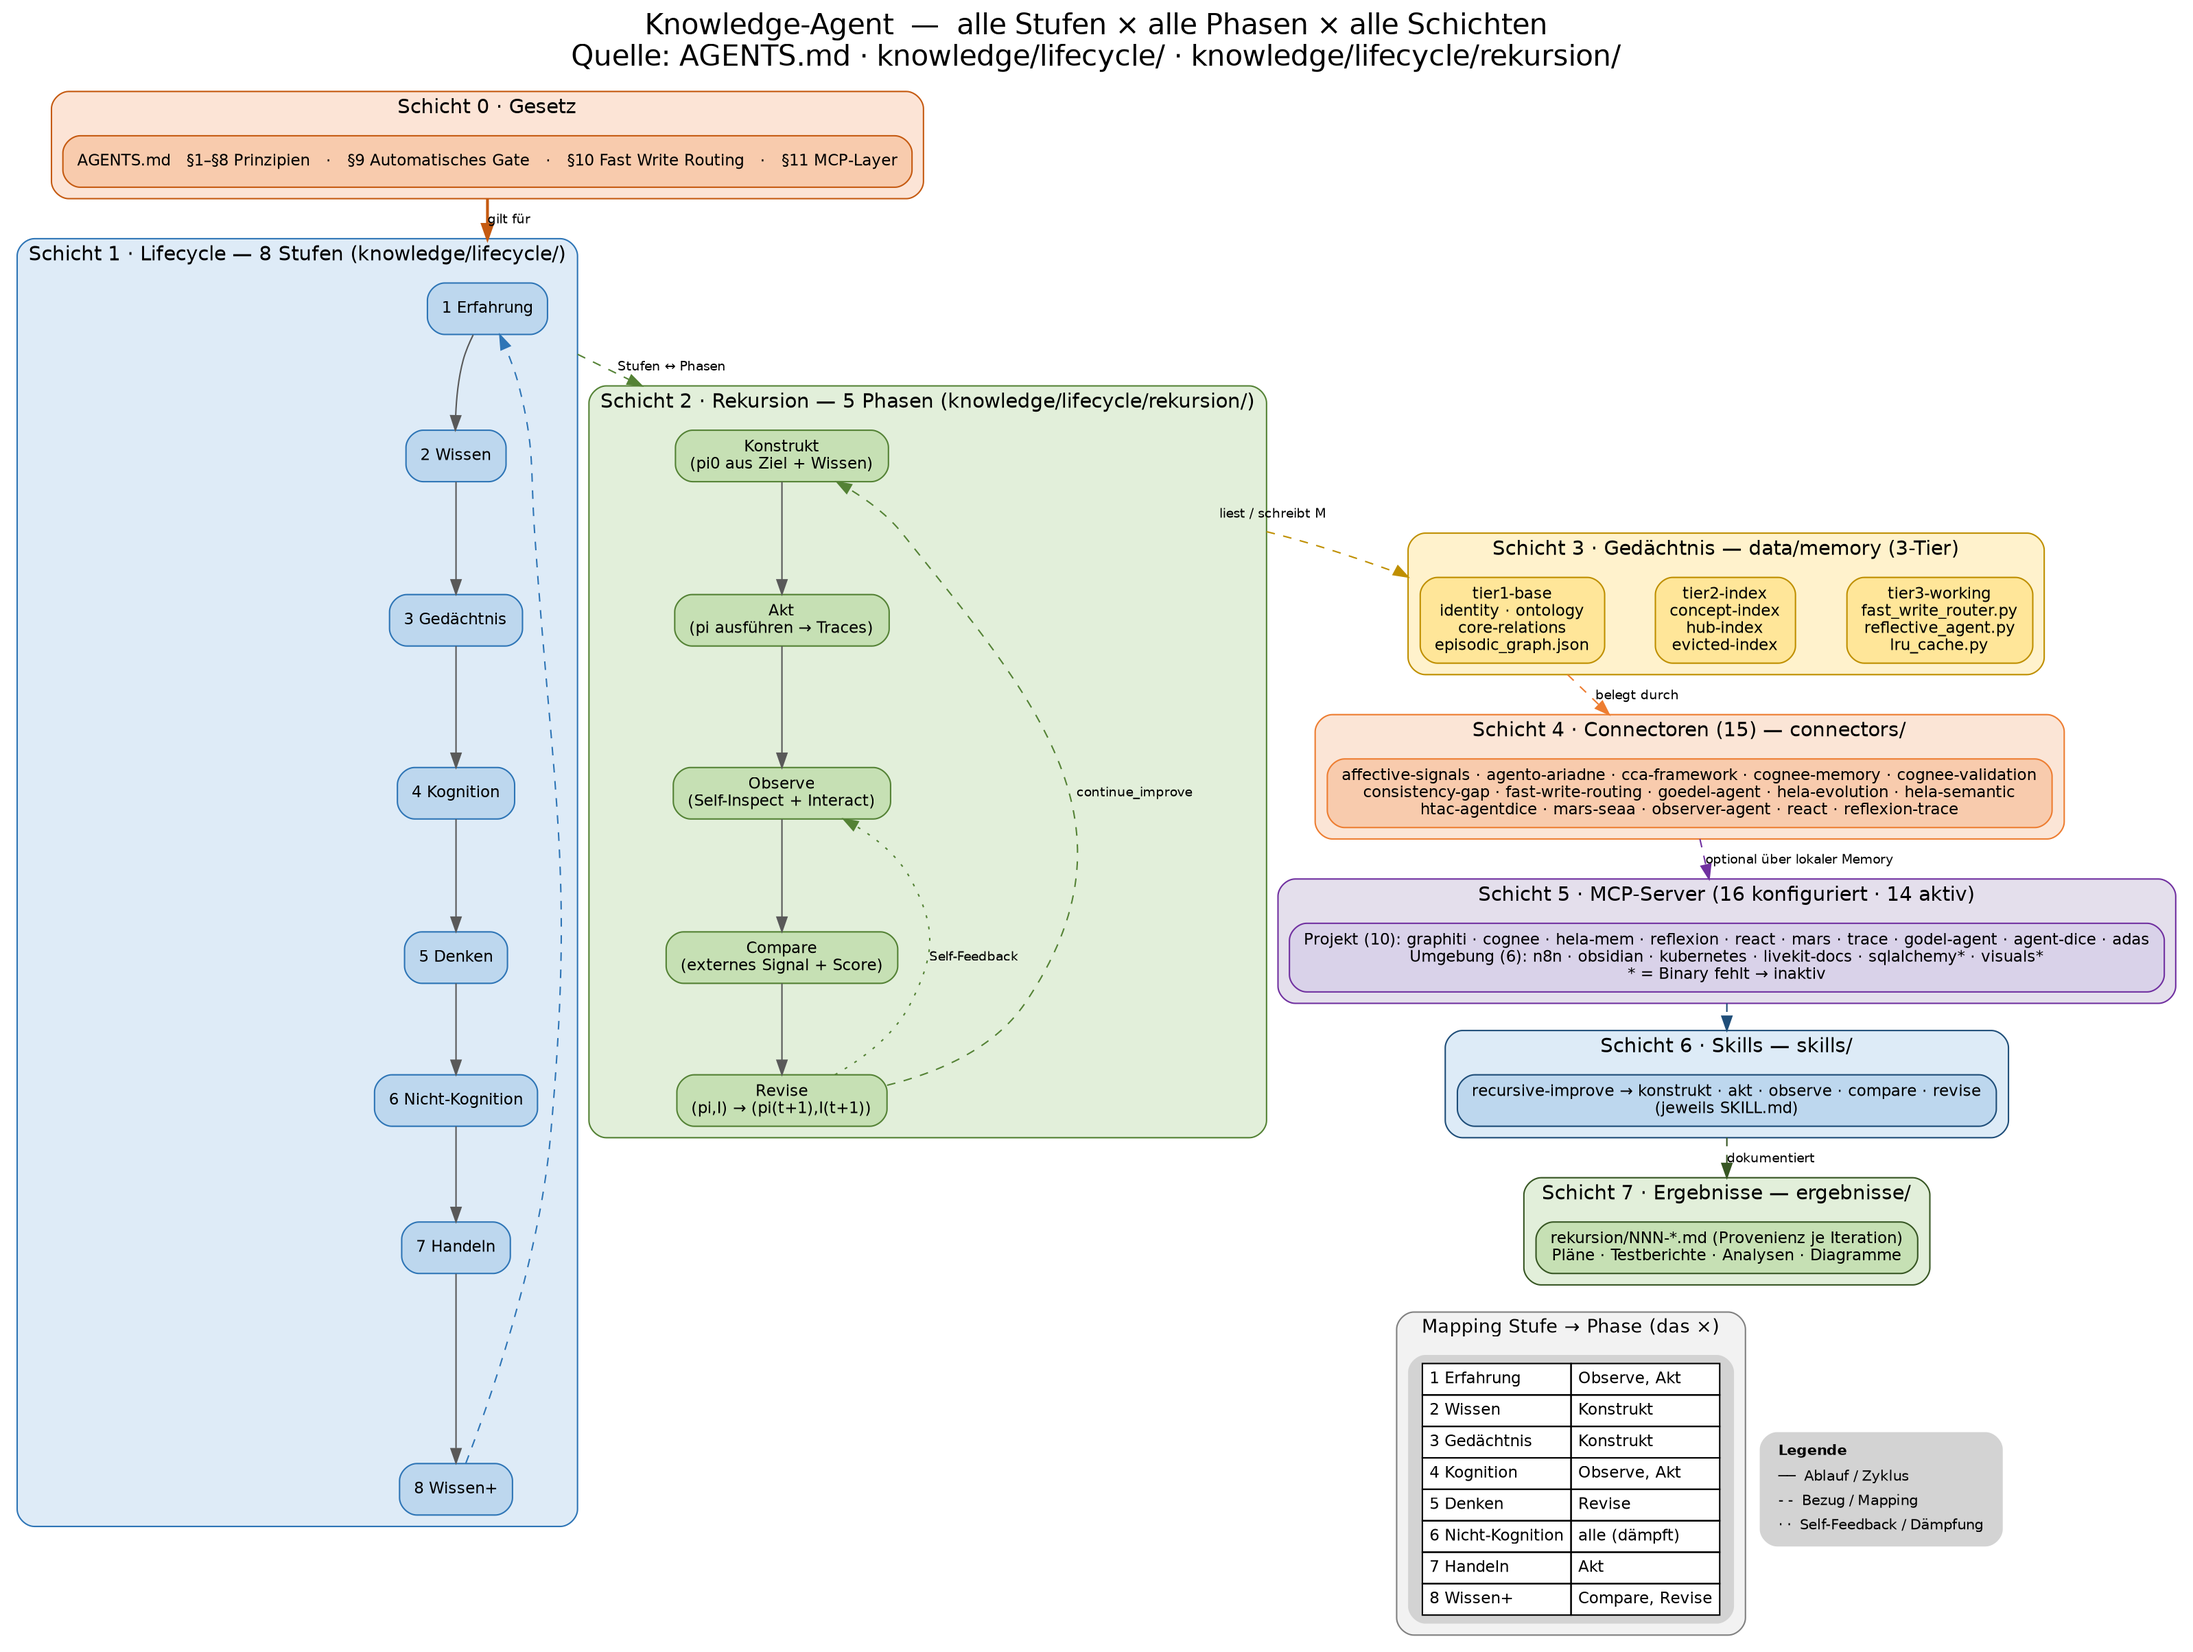
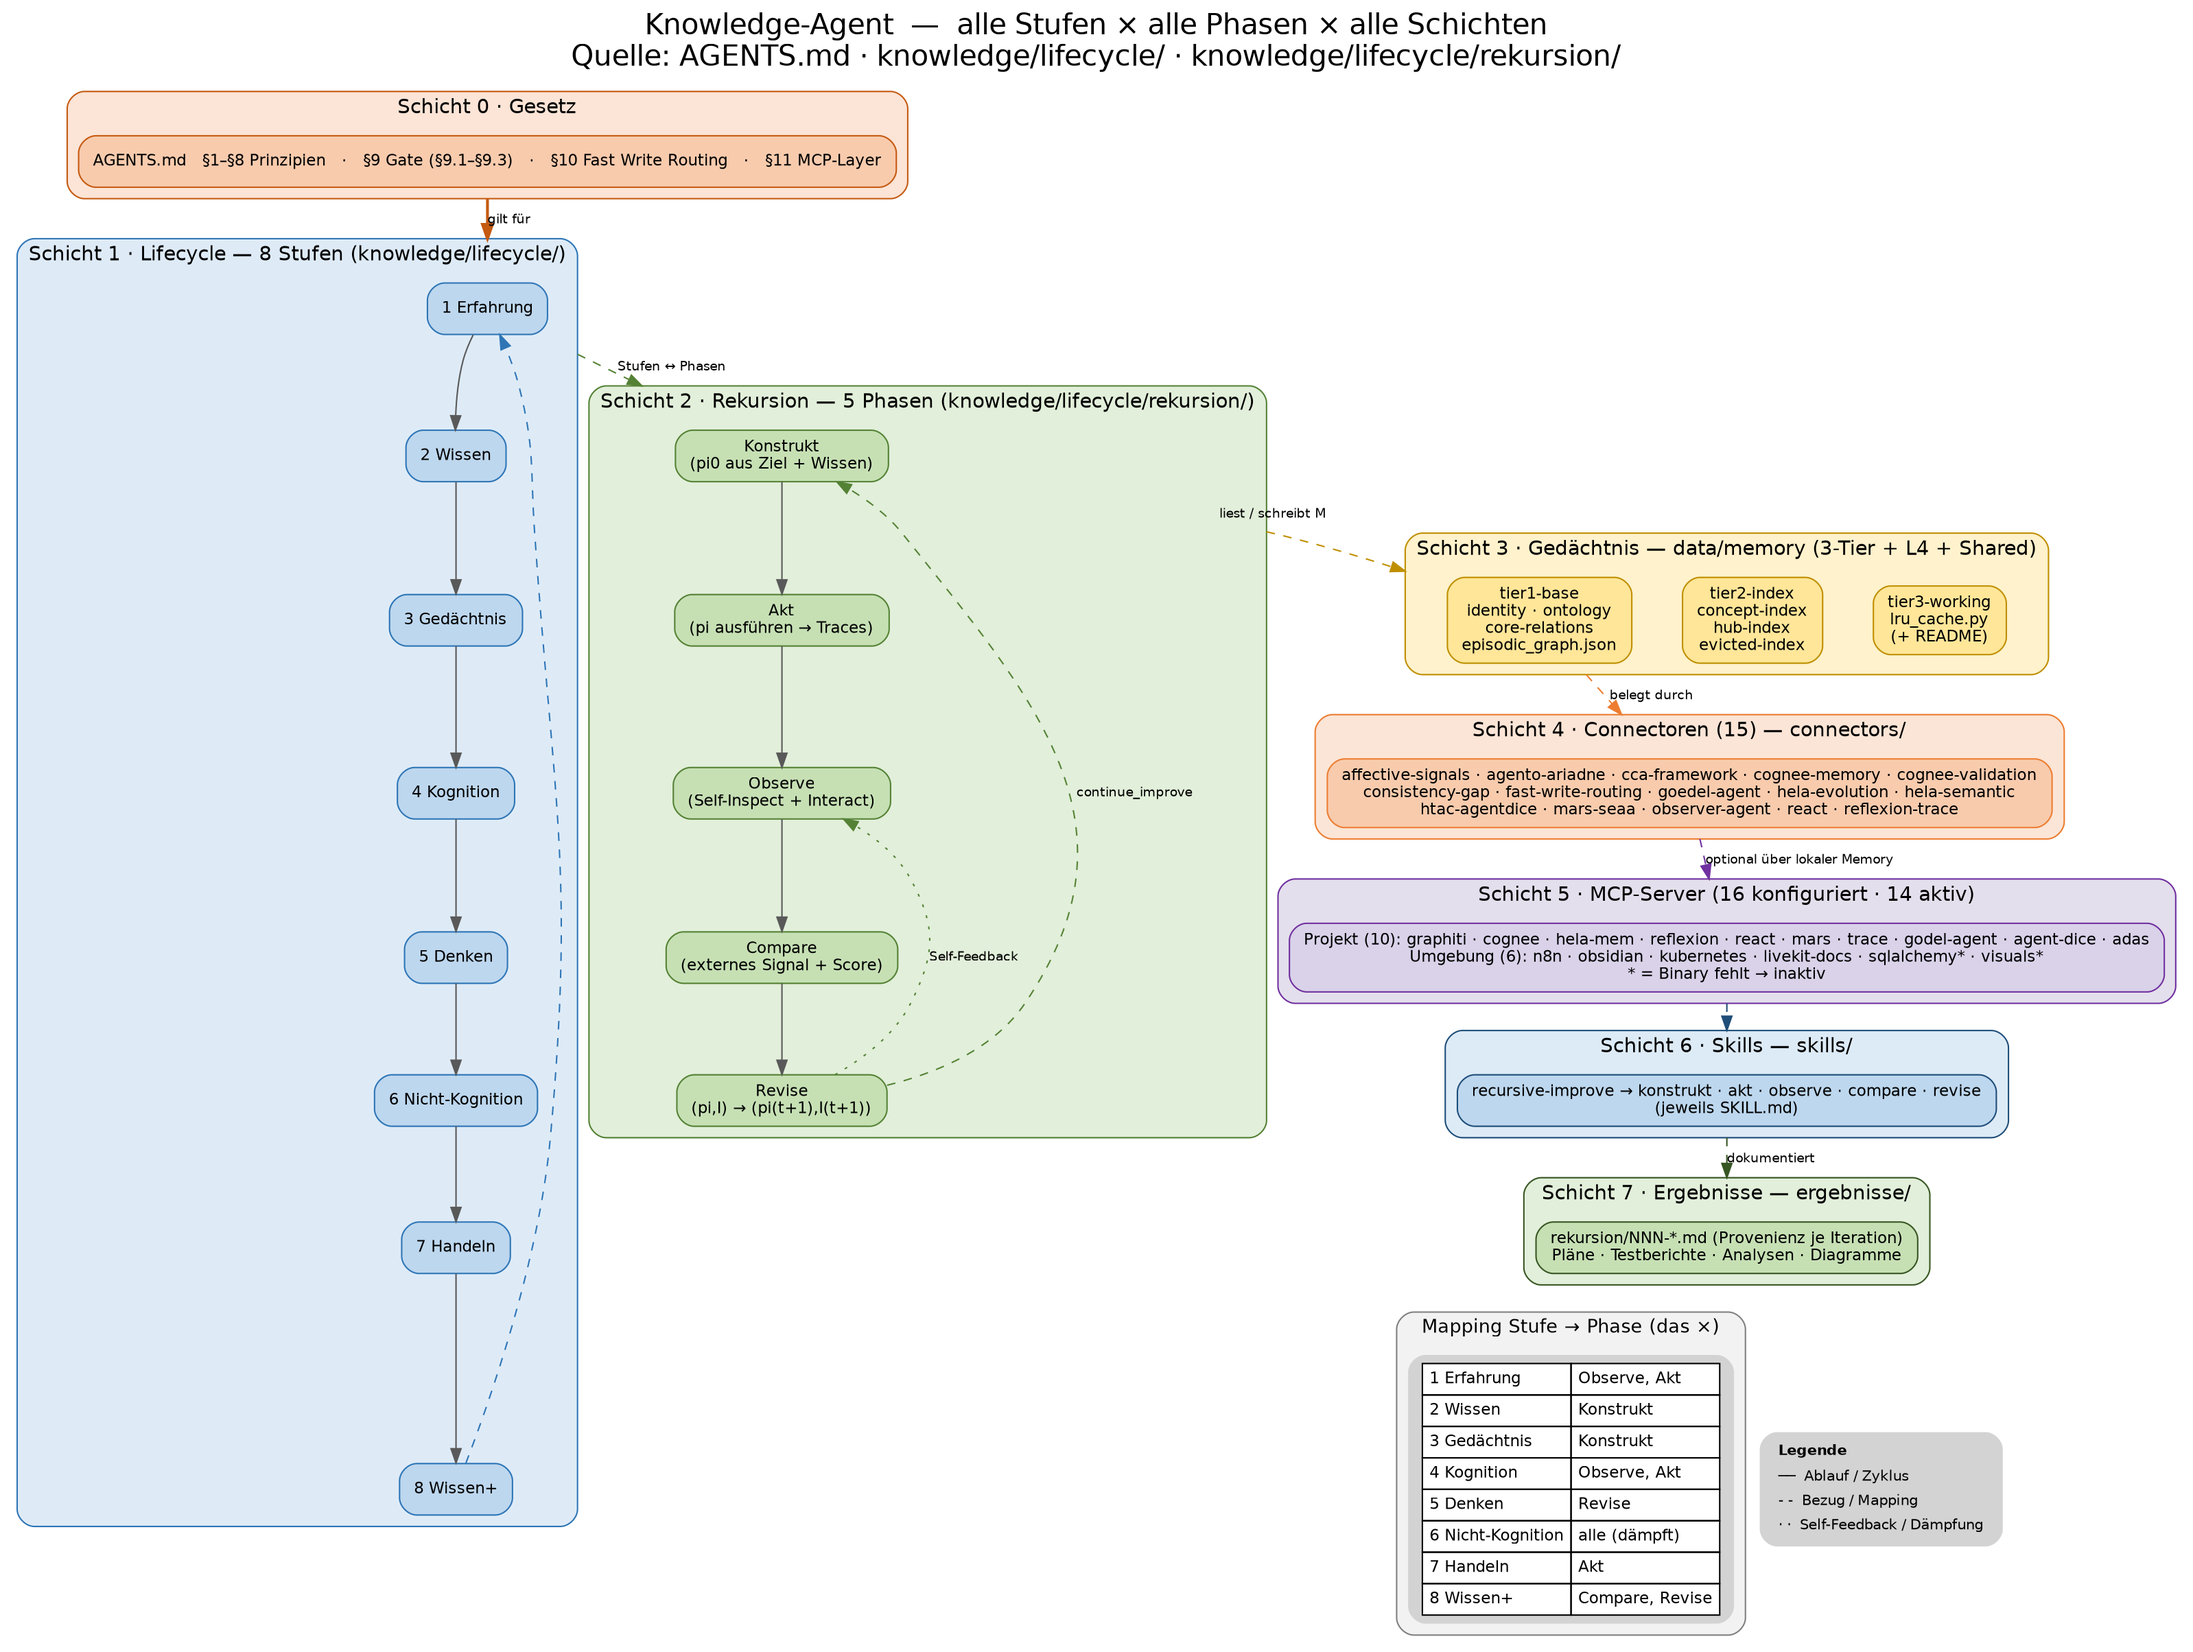
docs: Multi-Agent-Audit Code→Docs (Abweichungen behoben)
- AGENTS.md: §9.2a PII löschen (nicht [PII:typ]); §10.1 write-new/write-update (structured+tier3 / supersedieren);
  §10.2 Modelle (gemma-2b/nemotron) + Eskalation (String-Match); §9.1c Impl-Hinweis bias_monitor.py; §11 3-Tier+L4+Shared
- data/memory/README.md: Prozesse 6->9; versions/v3; LRU->wertbewusste Eviction
- README.md: 3-Tier+L4+Shared; §9.3; versions v1-v3
- agent-aufbau-kompakt.dot: git 7d80bbe; Prozesse 9; ergebnisse 75; rekursion 000-028; §9.1-9.3 (+ re-render)
- knowledge-agent-diagramm.dot: falscher tier3-working-Pfad behoben; +L4+Shared; §9.1-9.3 (+ re-render)

Changed region(s): [[0.6195, 0.3115, 0.9293, 0.436], [0.0, 0.0623, 0.3407, 0.1246], [0.3717, 0.0623, 0.4337, 0.1246]]

diff --git a/AGENTS.md b/AGENTS.md
@@ -165,6 +165,8 @@ willkürlich gesetzt werden:
 Auftrag (Default): max. **10 %** Änderung pro Iteration; darüber → Human-Gate (ask).
 Der Default ist NICHT forschungsbelegt, sondern vorläufige Projekt-Vorgabe; bei
 Kalibrierungsdaten durch den gelernten Schwellwert ersetzen.
+Implementierung: `data/memory/bias_monitor.py` (JSD-basierter Drift-Index (DI),
+Capped-Simplex-Gewichtung, Lyapunov-Damping; τ-Flag → Human-Gate).
 
 **d) Evidenz-Pflicht — Status: Belegt.**
 Jeder Proposal enthält **Score-Änderung, Diff und Drift (Δ zur Baseline)**.
@@ -181,7 +183,9 @@ Template: `ergebnisse/proposal-template.md`.
 Vor dem Persistieren werden PII erkannt und anonymisiert.
 Quelle: SP-Mem (arXiv:2608.16551) — sensible Werte separieren, sanierte Inhalte
 speichern; agentmemory — Secrets/`<private>` vor dem Store entfernen.
-Auftrag: PII-Typen (E-Mail, Telefon, Kreditkarte, IBAN) → `[PII:<typ>]`.
+Auftrag: PII-Typen (E-Mail, Telefon, Kreditkarte, IBAN) werden **entfernt**
+(`PIIFilter.minimize()`, Datenminimierung) – NICHT als `[PII:<typ>]` markiert;
+`anonymize` ist Alias (löscht ebenfalls). Vgl. `ergebnisse/pii-minimierung.md`.
 
 **b) Bias (periodische Checks gegen Ground-Truth-Checkpoints) — Belegt.**
 Bias wird regelmäßig gegen einen Ground-Truth-Checkpoint geprüft; Abweichung
@@ -236,8 +240,8 @@ als erste Entscheidungsinstanz aktiviert:
 | Kategorie | Bedeutung | Aktion |
 |-----------|-----------|--------|
 | **non-write** | Modell kann bereits ohne externes Memory antworten | Nicht speichern (spart Kosten, vermeidet Bloat) |
-| **write-new** | Modell verweigert Antwort ohne Memory → Wissen fehlt | In Cognee/Graphiti (externes Memory) speichern |
-| **write-update** | Modell antwortet falsch (veraltetes Wissen) | Bestehende Memory überschreiben |
+| **write-new** | Modell verweigert Antwort ohne Memory → Wissen fehlt | `knowledge/structured/` + `data/memory/tier3-working/` (vgl. §10.7); Cognee/Graphiti = externes Memory-Konzept |
+| **write-update** | Modell antwortet falsch (veraltetes Wissen) | Bestehende Memory **supersedieren** (invalidieren, NICHT löschen; vgl. §10.7) |
 
 ### 10.2 Architektur: Kleine-zu-Große Kaskade (Small-to-Large Cascade)
 
@@ -245,10 +249,10 @@ als erste Entscheidungsinstanz aktiviert:
 
 | Stufe | Modell | Aufgabe |
 |---|---|---|
-| **Stufe 1** | kleiner Router (qwen3-1.7B) | Filtert offensichtliche **non-write**-Fälle (hohe Konfidenz, Modell kann es zero-shot) |
-| **Stufe 2** | großer Router (qwen3-8B) | Klassifiziert die verbleibenden zwischen **write-new** und **write-update** |
+| **Stufe 1** | kleiner Router (Paper: qwen3-1.7B; Impl. `FWR_SMALL_MODEL`, Default `google/gemma-2b`) | Filtert offensichtliche **non-write**-Fälle (hohe Konfidenz, Modell kann es zero-shot) |
+| **Stufe 2** | großer Router (Paper: qwen3-8B; Impl. `FWR_LARGE_MODEL`, Default `nvidia/nemotron-3-super-120b-a12b`) | Klassifiziert die verbleibenden zwischen **write-new** und **write-update** |
 
-- **Eskalationsgate:** `g* = V_large − V_small`; eskalieren nur wenn `g_pred > 0`.
+- **Eskalation (Impl.):** wenn die Zero-Shot-Antwort des kleinen Routers **nicht korrekt** ist (String-Match in `classify()`); ein expliziter `g_pred`-Vergleich ist (noch) nicht implementiert. (Paper-Konzept: `g* = V_large − V_small`.)
 - **Belegte Wirkung:** < 50 % der Inputs eskaliert, ≤ 68 % redundante Writes reduziert.
 
 **Operative Implementierung:** `data/memory/fast_write_router.py` (verhaltensbasiert,
@@ -322,7 +326,7 @@ liegen – **kein Ersatz**.
 
 | Layer | Inhalt | Verfügbarkeit | Quelle |
 |---|---|---|---|
-| **Basis** | lokale Memory (`data/memory/`, 3-Tier) | **immer** (lokal, keine Cloud) | `data/memory/README.md` |
+| **Basis** | lokale Memory (`data/memory/`, 3-Tier + L4 Procedural + Shared Tier) | **immer** (lokal, keine Cloud) | `data/memory/README.md` |
 | **Optional** | MCPs: Cognee, Graphiti, HeLa-Mem | optional (kann ausfallen) | arXiv:2608.22215 (Dual-Layer) |
 
 Quelle (Dual-Layer-Konzept): arXiv:2608.22215 – „parametric memory Θ (stable,

diff --git a/data/memory/README.md b/data/memory/README.md
@@ -13,11 +13,11 @@ Das Gedächtnis ist als **dreischichtige Pipeline** aufgebaut — ergänzt um
 |---|---|---|---|
 | **Tier 1 – Base Knowledge** | Identität, Ontologie (8 Stufen, 5 Phasen), Kernbeziehungen | `tier1-base/` | SHIMI (arXiv:2504.06135), ARIADNE (arXiv:2105.09864), Graphiti (arXiv:2501.13956) |
 | **Tier 2 – Concept Index** | Konzept-zu-Ort-Mapping (selektives Laden) | `tier2-index/` | SHIMI (arXiv:2504.06135), SwiftMem (arXiv:2601.08160), A-MEM (arXiv:2502.12110) |
-| **Tier 3 – Working Memory** | begrenzter LRU-Cache (max. 15 aktive Items) | `tier3-working/` | MemGPT (arXiv:2310.08560), Cortex (arXiv:2509.17360) |
+| **Tier 3 – Working Memory** | bounded Cache, **Default wertbewusste Eviction** (`policy="value"`), max. 15; reine LRU = Vergleichsbaseline | `tier3-working/` | MemGPT (arXiv:2310.08560), Cortex (arXiv:2509.17360) |
 | **L4 – Procedural Memory** | Skills (versioniert, auditierbar, rückrollbar) | `skills/` (+ `versions/`) | Memory Survey (arXiv:2603.07670), TEA (arXiv:2506.12508), Mem^p (arXiv:2508.06433) |
 | **Shared Tier** | gemeinsamer Store mehrerer Agenten (ACL + Sync) | `shared/` | Memory Survey §6.5/§9.6 (arXiv:2603.07670), Collaborative Memory (arXiv:2505.18279) |
 
-**Ablauf:** Anfrage → Tier 2 (Concept Index) → passende Orte → Tier 3 (Working Memory, max 15, LRU).
+**Ablauf:** Anfrage → Tier 2 (Concept Index) → passende Orte → Tier 3 (Working Memory, max 15, wertbewusste Eviction (Default)).
 **L4:** Prozeduren (Skills) sind First-Class + versioniert. **Shared:** mehrere Agenten lesen/schreiben konfliktgeprüft (supersede statt löschen).
 
 ## Prozesse (`data/memory/*.py`)
@@ -27,13 +27,16 @@ Das Gedächtnis ist als **dreischichtige Pipeline** aufgebaut — ergänzt um
 | `fast_write_router.py` | 3-Klassen-Kaskade (non-write/write-new/write-update) + MemRouter |
 | `reflective_agent.py` | Konsolidierung (Hub-Distillation), Adaptive Forgetting (3 Bed.), Konfliktlösung, HMM-Trägheit, Spreading Activation |
 | `ingestion_hook.py` | Lifecycle-Events, Encoding-Gate, asynchrone Enrichment-Queue |
-| `trust.py` | Privacy (PII), Poisoning-Guard, Bias-Check |
-| `shared/shared_memory.py` | SharedTier (ACL, Versionierung, Sync) |
-| `tier3-working/lru_cache.py` | Working Memory (LRU + wertbewusste Eviction) |
+| `trust.py` | Privacy (PII-Löschung), Poisoning-Guard, Bias-Check |
+| `approval.py` | Zwei-Personen-Verifikation (EU-KI-VO Art. 14(5)); Flow pending → first_approved → second_approved → approved |
+| `bias_monitor.py` | JSD-basierter Bias-Drift-Index (DI) + Capped-Simplex + Lyapunov-Damping |
+| `bi_temporal.py` | Bi-temporaler Faktenspeicher (valid time × transaction time; supersede statt löschen) |
+| `shared/shared_memory.py` | SharedTier (ACL, Trust, Versionierung, Supersession, Sync) |
+| `tier3-working/lru_cache.py` | Working Memory (Default wertbewusste Eviction; reine LRU = Baseline) |
 
 ## Status (Auftrag)
 
-- **Tier 1:** angelegt (Identität, Ontologie, Kernbeziehungen, episodischer Graph; `versions/v1`,`v2`).
+- **Tier 1:** angelegt (Identität, Ontologie, Kernbeziehungen, episodischer Graph; `versions/v1`,`v2`,`v3`).
 - **Tier 2:** angelegt (Concept Index, Hub-Index, Evicted-Index).
 - **Tier 3:** angelegt (Working Memory, max 15).
 - **L4 Procedural:** `skills/` (14 aktive + `versions/vN/`, `AUDIT.md`).

diff --git a/README.md b/README.md
@@ -34,22 +34,23 @@ Volldefinition: [`AGENTS.md`](AGENTS.md) (Abschnitt „Die 8 Prinzipien").
 
 ```text
 knowledge-agent/
-├── AGENTS.md          # Gesetz (§1–§11; §9.1 Drift/Versionierung/HITL, §9.2 Trust)
+├── AGENTS.md          # Gesetz (§1–§11; §9.1 Drift/Versionierung/HITL, §9.2 Trust, §9.3 Zwei-Personen)
 ├── README.md · CONTRIBUTING.md · LICENSE
 ├── knowledge/         # lifecycle/ (8 Stufen + rekursion/ 5 Phasen), structured/, cognition/
 ├── connectors/        # 15 Connector-Dateien (9 in AGENTS.md referenziert; Quellen je Phase/Stufe)
 ├── data/memory/       # Tier 1–3 (tier1-base/ +versions, tier2-index/, tier3-working/)
 │                      #   + shared/ (SharedTier) + Prozesse (*.py)
-├── skills/            # L4 Procedural: 14 SKILL.md + versions/vN/ + AUDIT.md
+├── skills/            # L4 Procedural: 14 SKILL.md + versions/vN/ (je Skill) + AUDIT.md
 └── ergebnisse/        # Provenienz je Iteration (rekursion/), Analysen, Tests, Diagramme
 ```
 
-## Gedächtnis (3-Tier)
+## Gedächtnis (3-Tier + L4 Procedural + Shared Tier)
 
 - **tier1-base/** — Identität, Ontologie, Kernbeziehungen, episodischer Graph
-  (`episodic_graph.json`) + `versions/v1/`
+  (`episodic_graph.json`) + `versions/v1`–`v3`
 - **tier2-index/** — concept-index, hub-index, evicted-index
-- **tier3-working/** — Working Memory (`lru_cache.py`, max. 15 Items)
+- **tier3-working/** — Working Memory (`lru_cache.py`, max. 15; Default wertbewusste Eviction)
+- **L4** — Prozeduren (`skills/`, versioniert) · **Shared** — Multi-Agent-Store (`data/memory/shared/`)
 
 ## Guardrails
 
